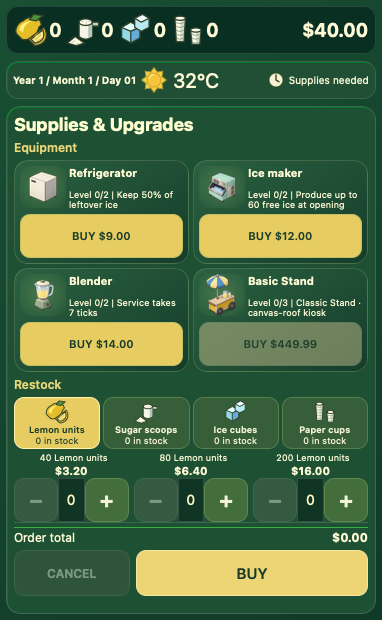
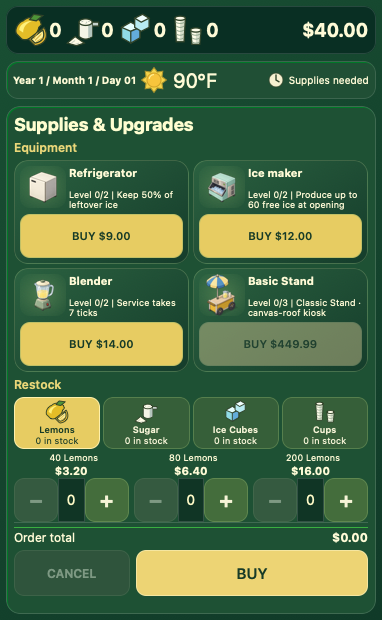
Expand landscape layouts and standardize pricing and Fahrenheit for 0.3.1

diff --git a/game/src/game/presentation/consolidated.css b/game/src/game/presentation/consolidated.css
@@ -137,3 +137,74 @@
 :root.duo[data-native-navigation][data-display][data-orientation] #app[data-workspace] .stand-reports #report-commentary strong {font-size:12px}
 :root.duo[data-native-navigation][data-display][data-orientation] #app[data-workspace] .stand-reports #report-commentary p {margin:3px 0;line-height:1.25;font-size:10px}
 :root.duo[data-native-navigation][data-display][data-orientation] #app[data-workspace] .stand-reports #result-values dt,:root.duo[data-native-navigation][data-display][data-orientation] #app[data-workspace] .stand-reports #result-values dd {font-size:10px;line-height:1.2;padding:3px 0}
+
+:root.duo[data-native-navigation][data-display][data-orientation] #app[data-workspace] .pitcher-price {display:flex;align-items:center;justify-content:space-between;gap:8px;padding:7px 10px;background:#0d3428;border-radius:10px;margin-top:5px;font-size:12px}
+:root.duo[data-native-navigation][data-display][data-orientation] #app[data-workspace] .pitcher-price small {font-size:10px;color:#b9d0b0}
+:root.duo[data-native-navigation][data-display][data-orientation] #app[data-workspace] .pitcher-price strong {font-size:18px;color:#f3dc81}
+:root.duo[data-native-navigation][data-display][data-orientation] #app[data-workspace] .location-list {grid-template-columns:1fr}
+:root.duo[data-native-navigation][data-display][data-orientation] #app[data-workspace] .location-list button:not([aria-pressed="true"]) {display:none!important}
+:root.duo[data-native-navigation][data-display][data-orientation] #app[data-workspace] .location-list button[aria-pressed="true"] {display:grid;grid-template-columns:65% 35%;align-items:center;padding:5px;background:#103d2b;color:#fff6cb;gap:6px;overflow:hidden}
+:root.duo[data-native-navigation][data-display][data-orientation] #app[data-workspace] .location-list button img {max-height:none;width:100%;height:96px;object-fit:contain;border-radius:8px;background:#092b22}
+:root.duo[data-native-navigation][data-display][data-orientation] #app[data-workspace] .location-list button span {font-size:16px;white-space:normal}
+:root.duo[data-native-navigation][data-display][data-orientation] #app[data-workspace] .location-list button small {font-size:11px;margin-top:5px}
+@media(max-width:649px) {
+ :root.duo[data-native-navigation][data-display][data-orientation] #app[data-workspace] #rent-details {grid-template-columns:minmax(0,1fr) auto minmax(0,1fr) auto;column-gap:6px;font-size:9px}
+ :root.duo[data-native-navigation][data-display][data-orientation] #app[data-workspace] #rent-details dt,:root.duo[data-native-navigation][data-display][data-orientation] #app[data-workspace] #rent-details dd {font-size:9px}
+ :root.duo[data-native-navigation][data-display][data-orientation] #app[data-workspace] .location-list button img {height:82px}
+ :root.duo[data-native-navigation][data-display][data-orientation] #app[data-workspace] .pitcher-price {padding:4px 8px;font-size:11px}
+ :root.duo[data-native-navigation][data-display][data-orientation] #app[data-workspace] .pitcher-price strong {font-size:16px}
+}
+@media(min-width:650px) and (min-height:500px) and (orientation:landscape) {
+ :root.duo[data-native-navigation][data-display][data-orientation] #app[data-workspace] .panel {padding:14px;gap:12px}
+ :root.duo[data-native-navigation][data-display][data-orientation] #app[data-workspace] .workspace-title {font-size:22px}
+ :root.duo[data-native-navigation][data-display][data-orientation] #app[data-workspace] .section-heading {font-size:15px;margin-bottom:10px}
+ :root.duo[data-native-navigation][data-display][data-orientation] #app[data-workspace][data-workspace="recipe"] #recipe-page {display:flex!important;flex-direction:column}
+ :root.duo[data-native-navigation][data-display][data-orientation] #app[data-workspace] #recipe-controls {flex:1;display:flex;flex-direction:column;justify-content:space-evenly}
+ :root.duo[data-native-navigation][data-display][data-orientation] #app[data-workspace] .recipe-row {min-height:74px;padding:10px;border-radius:14px}
+ :root.duo[data-native-navigation][data-display][data-orientation] #app[data-workspace] .recipe-row label {font-size:16px}
+ :root.duo[data-native-navigation][data-display][data-orientation] #app[data-workspace] .recipe-row .pixel-icon {width:42px;height:42px}
+ :root.duo[data-native-navigation][data-display][data-orientation] #app[data-workspace] .recipe-row .spinner button,:root.duo[data-native-navigation][data-display][data-orientation] #app[data-workspace] .recipe-row input {width:48px;height:48px;font-size:22px}
+ :root.duo[data-native-navigation][data-display][data-orientation] #app[data-workspace] .recipe-yield {padding:12px 8px;font-size:12px}
+ :root.duo[data-native-navigation][data-display][data-orientation] #app[data-workspace] #recipe-hint {font-size:12px;line-height:1.4;margin-top:12px}
+ :root.duo[data-native-navigation][data-display][data-orientation] #app[data-workspace][data-workspace="recipe"] #marketing-page {display:flex!important;flex-direction:column}
+ :root.duo[data-native-navigation][data-display][data-orientation] #app[data-workspace] #price-controls label {padding:12px;font-size:16px}
+ :root.duo[data-native-navigation][data-display][data-orientation] #app[data-workspace] #price-controls .pixel-icon {width:40px;height:40px}
+ :root.duo[data-native-navigation][data-display][data-orientation] #app[data-workspace] .pitcher-price {padding:14px 12px;font-size:15px}
+ :root.duo[data-native-navigation][data-display][data-orientation] #app[data-workspace] .pitcher-price strong {font-size:24px}
+ :root.duo[data-native-navigation][data-display][data-orientation] #app[data-workspace] #management-bill {margin:12px 0;font-size:12px}
+ :root.duo[data-native-navigation][data-display][data-orientation] #app[data-workspace] .advertising-options {flex:1;align-items:stretch;gap:9px}
+ :root.duo[data-native-navigation][data-display][data-orientation] #app[data-workspace] .advertising-options button {display:flex;flex-direction:column;justify-content:center;gap:12px;font-size:15px;border-radius:18px}
+ :root.duo[data-native-navigation][data-display][data-orientation] #app[data-workspace] .advertising-options .pixel-icon {width:56px;height:56px}
+ :root.duo[data-native-navigation][data-display][data-orientation] #app[data-workspace] .advertising-options small {font-size:12px}
+ :root.duo[data-native-navigation][data-display][data-orientation] #app[data-workspace][data-workspace="shop"] #supplies-page {display:flex!important;flex-direction:column}
+ :root.duo[data-native-navigation][data-display][data-orientation] #app[data-workspace] #supply-controls {flex:1;display:flex;flex-direction:column}
+ :root.duo[data-native-navigation][data-display][data-orientation] #app[data-workspace] .supply-tabs {gap:6px;margin-bottom:12px}
+ :root.duo[data-native-navigation][data-display][data-orientation] #app[data-workspace] .supply-tabs button {padding:10px 2px;font-size:12px}
+ :root.duo[data-native-navigation][data-display][data-orientation] #app[data-workspace] .supply-tabs .pixel-icon {width:38px;height:38px}
+ :root.duo[data-native-navigation][data-display][data-orientation] #app[data-workspace] .supply-tabs small {font-size:11px}
+ :root.duo[data-native-navigation][data-display][data-orientation] #app[data-workspace] #supplies {flex:1;display:grid;grid-template-rows:repeat(3,1fr)}
+ :root.duo[data-native-navigation][data-display][data-orientation] #app[data-workspace] .bundle-row {font-size:14px;min-height:60px;gap:8px}
+ :root.duo[data-native-navigation][data-display][data-orientation] #app[data-workspace] .order-dock {padding-top:12px}
+ :root.duo[data-native-navigation][data-display][data-orientation] #app[data-workspace] .order-total {font-size:15px;margin-bottom:8px}
+ :root.duo[data-native-navigation][data-display][data-orientation] #app[data-workspace] .purchase-actions button {min-height:48px;font-size:13px}
+ :root.duo[data-native-navigation][data-display][data-orientation] #app[data-workspace][data-workspace="business"] #staff-page {display:flex!important;flex-direction:column}
+ :root.duo[data-native-navigation][data-display][data-orientation] #app[data-workspace] #staff-catalog {flex:1;grid-template-rows:repeat(3,1fr);gap:10px}
+ :root.duo[data-native-navigation][data-display][data-orientation] #app[data-workspace] #staff-catalog .management-card {grid-template-columns:84px minmax(0,1fr) 78px;padding:10px;gap:8px;align-content:center}
+ :root.duo[data-native-navigation][data-display][data-orientation] #app[data-workspace] #staff-catalog .catalog-picture {width:84px;height:80px}
+ :root.duo[data-native-navigation][data-display][data-orientation] #app[data-workspace] #staff-catalog h3 {font-size:16px;align-self:end}
+ :root.duo[data-native-navigation][data-display][data-orientation] #app[data-workspace] #staff-catalog p {font-size:12px;align-self:start}
+ :root.duo[data-native-navigation][data-display][data-orientation] #app[data-workspace] .location-list button img {height:clamp(115px,24vh,185px)}
+ :root.duo[data-native-navigation][data-display][data-orientation] #app[data-workspace] .location-list button span {font-size:22px}
+ :root.duo[data-native-navigation][data-display][data-orientation] #app[data-workspace] .location-list button small {font-size:13px}
+ :root.duo[data-native-navigation][data-display][data-orientation] #app[data-workspace] #rent-details {font-size:11px}
+ :root.duo[data-native-navigation][data-display][data-orientation] #app[data-workspace] #rent-details dt,:root.duo[data-native-navigation][data-display][data-orientation] #app[data-workspace] #rent-details dd {padding:3px 0}
+ :root.duo[data-native-navigation][data-display][data-orientation] #app[data-workspace] #rent-unlock,:root.duo[data-native-navigation][data-display][data-orientation] #app[data-workspace] #rent-reservation {font-size:10px;line-height:1.25}
+}
+
+:root.duo[data-native-navigation][data-display][data-orientation] #app[data-workspace] #ice-basis {display:block;font-size:11px;margin:5px 0}
+
+@media(min-width:650px) and (orientation:landscape) {
+ :root.duo[data-native-navigation][data-display][data-orientation] #app[data-workspace] #rent-details {grid-template-columns:minmax(0,1fr) auto minmax(0,1fr) auto;column-gap:9px}
+ :root.duo[data-native-navigation][data-display][data-orientation] #app[data-workspace] #rent-details dt,:root.duo[data-native-navigation][data-display][data-orientation] #app[data-workspace] #rent-details dd {font-size:10px;line-height:1.3}
+ :root.duo[data-native-navigation][data-display][data-orientation] #app[data-workspace] #upgrades-catalog {height:calc(100% - 32px)}
+}

diff --git a/game/src/game/presentation/layout.ts b/game/src/game/presentation/layout.ts
@@ -6,10 +6,10 @@ import { standPreview } from "./stand-art";
 import { equipmentArt } from "./equipment-art";
 import { LOCATIONS, PALM_LOCATION_IDS as LOCATION_IDS } from "../content/locations";
 
-const recipeRow = (item: "lemon" | "sugar" | "ice") => `<div class="recipe-row"><label for="${item}">${icon(item)}<span>${item === "ice" ? "Ice per cup" : ITEMS[item].name}</span></label><div class="spinner"><button type="button" data-adjust="${item}" data-direction="-1" aria-label="Decrease ${item}">−</button><input id="${item}" type="number" min="0" max="${item === "sugar" ? 10 : item === "ice" ? 7 : 20}" step="1" value="${item === "sugar" ? 3 : item === "ice" ? 2 : 6}"><button type="button" data-adjust="${item}" data-direction="1" aria-label="Increase ${item}">+</button></div></div>`;
+const recipeRow = (item: "lemon" | "sugar" | "ice") => `<div class="recipe-row"><label for="${item}">${icon(item)}<span>${ITEMS[item].name}</span></label><div class="spinner"><button type="button" data-adjust="${item}" data-direction="-1" aria-label="Decrease ${item}">−</button><input id="${item}" type="number" min="0" max="${item === "sugar" ? 10 : item === "ice" ? 7 : 20}" step="1" value="${item === "sugar" ? 3 : item === "ice" ? 2 : 6}"><button type="button" data-adjust="${item}" data-direction="1" aria-label="Increase ${item}">+</button></div></div>`;
 
 export const markup = `
-<header class="masthead"><h1>${icon("lemon")} Lemonade Tycoon</h1><span class="edition">REMASTERED · 0.3.0</span></header>
+<header class="masthead"><h1>${icon("lemon")} Lemonade Tycoon</h1><span class="edition">REMASTERED · 0.3.1</span></header>
 <section class="resource-bar" aria-label="Supplies and cash">
  ${ITEM_KEYS.map((item) => `<span><span class="sr-only">${ITEMS[item].name}: </span>${icon(item)}<strong id="inventory-${item}">0</strong></span>`).join("")}
  <strong id="cash" aria-label="Cash on hand"></strong>
@@ -43,7 +43,7 @@ export const markup = `
       <div class="recipe-group"><h3>Per pitcher</h3>${(["lemon", "sugar"] as const).map(recipeRow).join("")}<div class="recipe-yield">${icon("recipe")}<strong id="pitcher-yield"></strong></div></div>
       <div class="recipe-group"><h3 id="ice-basis">Per sold cup</h3>${recipeRow("ice")}</div>
      </fieldset><p class="hint" id="recipe-hint"></p></div>
-    <div id="marketing-page" class="control-page" hidden><p class="intro">Set your price for a cup of lemonade.<br>Charge too much and customers will walk away.</p><fieldset id="price-controls"><legend>Price per cup</legend><label>${icon("price")}Selling price ($)<input id="price" type="number" min="0.25" max="5" step="0.01" value="1.50"></label></fieldset><p id="management-bill" class="hint"></p><div class="advertising-options">${Object.entries(ADS).map(([id, item]) => `<button data-advertising="${id}">${icon(id === "none" ? "wordOfMouth" : id === "radio" ? "radio" : "marketing")}<strong>${item.name}</strong><span><small>$${(item.cost / 100).toFixed(2)}/day</small><small>+${Math.round((item.traffic - 1) * 100)}% visitors</small></span></button>`).join("")}</div><p class="hint">Compare your selling price with the ingredient cost below.</p></div>
+    <div id="marketing-page" class="control-page" hidden><p class="intro">Set your price for a cup of lemonade.<br>Charge too much and customers will walk away.</p><fieldset id="price-controls"><legend>Price per cup</legend><label>${icon("price")}Price per cup ($)<input id="price" type="number" min="0.25" max="5" step="0.01" value="1.50"></label><div class="pitcher-price"><span>Price per pitcher <small id="price-pitcher-yield"></small></span><strong id="price-pitcher"></strong></div></fieldset><p id="management-bill" class="hint"></p><div class="advertising-options">${Object.entries(ADS).map(([id, item]) => `<button data-advertising="${id}">${icon(id === "none" ? "wordOfMouth" : id === "radio" ? "radio" : "marketing")}<strong>${item.name}</strong><span><small>$${(item.cost / 100).toFixed(2)}/day</small><small>+${Math.round((item.traffic - 1) * 100)}% visitors</small></span></button>`).join("")}</div><p class="hint">Compare your selling price with the ingredient cost below.</p></div>
     <div id="supplies-page" class="control-page" hidden><p class="intro">Choose your supplies, then BUY to confirm.<br>Leftovers stay in stock for tomorrow.</p><fieldset id="supply-controls"><legend class="sr-only">Buy supplies</legend>
      <nav class="supply-tabs" aria-label="Supply categories">${ITEM_KEYS.map((item) => `<button data-supply="${item}" aria-pressed="${item === "lemon"}">${icon(item)}<span>${ITEMS[item].name}</span><small id="stock-${item}"></small></button>`).join("")}</nav>
      <div id="supplies"></div><p id="order-summary" class="hint"></p><div class="order-total"><span>Order total</span><strong id="order-total"></strong></div><div class="purchase-actions"><button id="cancel-order">CANCEL</button><button id="buy-order">BUY</button></div>
@@ -74,7 +74,7 @@ export const markup = `
 <p>2. Recipe: start with 6 lemons / 3 sugar per pitcher. Keep the drink concentrated as well as balanced: extra ice dilutes it and increases cups per pitcher. Use enough ice to cool the drink; the recipe panel shows the minimum for today.</p>
 <p>3. Marketing: enter your price directly. Try $1.75 first. Ads bring more visitors, but charge every day. Extra traffic needs enough stock and fast service.</p>
 <p>4. START DAY prepares the first pitcher and sells automatically. Empty pitchers refill immediately while supplies last. Speed and SKIP change waiting time, not the outcome. Results separates ingredient costs from supply cash purchases.</p>
-<p>5. NEXT DAY keeps leftover lemons, sugar and paper cups. Leftover ice melts; a level 1 refrigerator keeps half (rounded down), and level 2 keeps all. Earn Park after 3 days/$45 sales/55% rating; Downtown after 7 days/$120/65%. Rent and wages charge at opening.</p>
+<p>5. NEXT DAY keeps leftover lemons, sugar and cups. Leftover ice melts; a level 1 refrigerator keeps half (rounded down), and level 2 keeps all. Earn Park after 3 days/$45 sales/55% rating; Downtown after 7 days/$120/65%. Rent and wages charge at opening.</p>
 <p>Ice makers produce free ice at opening, within the storage limit. No electricity or production fee. Bought ice still costs money; free ice is used first and adds no ingredient expense.</p>
 <p>Equipment is permanent. A server speeds service; a host extends patience. Owner only dismisses staff. Ice makers produce up to 60/120 free ice at opening. Choose affordable investments.</p>
 <p>Customers decide whether to buy from your price, their budget and your existing reputation. Ads attract visitors. Today's recipe is tasted after purchase: too little ice on a hot day tastes warm; extra ice can make it watery unless you add balanced lemon and sugar. Lemon/sugar balance affects sourness and sweetness. Taste changes satisfaction and future reputation. Daily satisfaction also includes customers lost to price, waiting or empty stock. Downtown has more office workers, who wait less than neighbors or students. Operating costs are rent, moving, wages and ads.</p>

diff --git a/game/src/reboot.ts b/game/src/reboot.ts
@@ -641,14 +641,14 @@ function renderRent(): void {
         Math.round((location.patience + STAFF[state.management.staff].patience) * customer.patience)));
     const totalWeights = location.weights.reduce((total: number, weight) => total + weight, 0);
     const conditions = locationConditions(state.day, selectedLocation, state.weather);
-    text("rent-description", location.description + (selectedLocation === "mall" ? " Indoors:20\u00b0C; sheltered from rain." :
+    text("rent-description", location.description + (selectedLocation === "mall" ? " Indoors: 68\u00b0F; sheltered from rain." :
         state.weather.label === "Rainy" ? " Rain reduces outdoor foot traffic today." : "") +
         (conditions.newsFactor !== 1 ? ` Today's news changes visitors by ${Math.round((conditions.newsFactor - 1) * 100)}%.` : ""));
     rows("rent-details", [
         ["Daily rent / moving", `${money(location.rent)} / ${money(moveFee)}`],
         ["Visitors / budget", `${expectedTraffic({ ...state, business: null }, selectedLocation)} / ${Math.round(location.budget * 100)}%`],
         ["Wait range / arrivals", `${(Math.min(...patience) / 10).toFixed(1)}–${(Math.max(...patience) / 10).toFixed(1)}s / ${(location.arrival / 10).toFixed(1)}s`],
-        ["Temperature / cooling", `${conditions.temperature}\u00b0C / ${recipeTaste(state.plan.recipe, conditions.temperature).preferredIce} ice per cup`],
+        ["Temperature / cooling", `${Math.round(conditions.temperature * 9 / 5 + 32)}\u00b0F / ${recipeTaste(state.plan.recipe, conditions.temperature).preferredIce} ice per cup`],
         ["Office workers", `${Math.round(location.weights[1] / totalWeights * 100)}% · shortest wait`],
         ["Popularity / satisfaction", `${Math.round(rating.popularity * 100)}% / ${Math.round(rating.satisfaction * 100)}%`],
     ]);
@@ -676,7 +676,7 @@ function render(): void {
     text("day", String(date.day).padStart(2, "0"));
     element("career-date").title = `Business day ${state.day}`;
     text("cash", money(state.cash));
-    text("weather", effectiveWeather(state).temperature + "°C");
+    text("weather", `${Math.round(effectiveWeather(state).temperature * 9 / 5 + 32)}°F`);
     const weatherArt = element("weather-art");
     if (weatherArt.dataset.weather !== state.weather.label) {
         weatherArt.innerHTML = icon(
@@ -689,7 +689,7 @@ function render(): void {
     text("weather-label", selling ? "Current weather" : closed ? "Today's weather" : "Weather forecast");
     const climateLocation = prep ? state.pendingLocation ?? state.location : state.location;
     text("weather-advice", climateLocation === "mall" && (!state.business || state.business.conditions)
-        ? `${state.weather.label} outside · indoors 20\u00b0C`
+        ? `${state.weather.label} outside · indoors 68\u00b0F`
         : state.business && !state.business.conditions
             ? `${state.weather.label} · saved opening weather`
             : `${state.weather.label} · ${prep ? "steady all day" : LOCATIONS[state.location].street}`);
@@ -788,6 +788,8 @@ function render(): void {
     if (prep && readiness.cups === 0) element("open").setAttribute("aria-describedby", "supply-warning");
     else element("open").removeAttribute("aria-describedby");
     text("unit-cost", money(unitCost(state.plan.recipe, state.freeIce + openingCosts(state).ice)));
+    text("price-pitcher", money(state.plan.price * cupsPerPitcher(state.plan.recipe)));
+    text("price-pitcher-yield", `(${cupsPerPitcher(state.plan.recipe)} cups)`);
     const legacyPaidDay = state.business !== null && state.business.customerModel !== "purchase-first-v1";
     text("ice-basis", legacyPaidDay ? "Ice reserved at opening" : "Per sold cup");
     text("pitcher-yield", `${cupsPerPitcher(state.plan.recipe)} cups per pitcher; ` + (legacyPaidDay

diff --git a/game/src/game/presentation/icons.ts b/game/src/game/presentation/icons.ts
@@ -39,7 +39,7 @@ const drawings = {
     marketing: '<path fill="#eff1da" d="m2 6 10-4 9 5-10 5-9-4Z"/><path fill="none" stroke="#7c9883" stroke-width=".7" d="m7 6 5-2m-4 4 7-3"/><path fill="#c79e35" d="M13 14h10v6q-5 4-10 0Z"/><ellipse fill="#f6df68" cx="18" cy="14" rx="5" ry="2.5"/><path fill="none" stroke="#927731" d="M13 17q5 4 10 0m-5-5v4"/><ellipse fill="#e7c453" cx="9" cy="22" rx="5" ry="2.5"/><path fill="none" stroke="#f9ed9c" d="m7 21 3 1"/>',
     upgrades: '<path fill="#d6a450" d="M4 13h18v10H4Z"/><path fill="#efdab0" d="m2 10 5-7h14l3 7-4 3H5Z"/><path fill="#bc614c" d="m2 10 5-7h3l-3 7-2 3Zm8 0 2-7h4l-1 7-2 3Zm8 0V3h3l3 7-4 3Z"/><path fill="#6d8f79" d="M7 15h6v5H7Z"/><path fill="#f6e2b0" d="M3 12h20v3H3Z"/><path fill="#a67536" d="M15 16h5v7h-5Z"/>',
     wordOfMouth: '<path fill="#d6e1c4" d="M9 3h15v12h-3v5l-5-5H9Z"/><path fill="#faf1d0" d="M2 8h15v12h-6l-5 4v-4H2Z"/><path fill="none" stroke="#799179" d="M12 6h8M5 12h9M5 16h6"/>',
-    radio: '<path fill="none" stroke-width="1.5" d="m17 7 5-5"/><path fill="#bf7d48" d="M2 8h22v15H2Z"/><path fill="#efdba8" d="M4 10h18v11H4Z"/><path fill="#c9c7a0" d="M6 12h8v7H6Z"/><path fill="none" stroke="#7a8e77" stroke-width=".6" d="M7 13h6m-6 2h6m-6 2h6"/><path fill="#527563" d="M16 11h5v3h-5Z"/><circle fill="#e2bd5a" cx="18.5" cy="18" r="2"/><path fill="none" d="M6 23v1m14-1v1"/>',
+    radio: '<path fill="#547368" d="M2 5h22v17H2Z"/><path fill="#cce4d5" d="M4 7h15v12H4Z"/><path fill="#f1d366" d="m9 9 7 4-7 4Z"/><circle fill="#f1d366" cx="21.5" cy="10" r="1"/><path fill="none" d="m8 2 5 3 5-3M8 24h10m-5-2v2"/>',
 } as const;
 export function icon(name: keyof typeof drawings): string {
     return `<svg class="pixel-icon" viewBox="0 0 26 26" aria-hidden="true" focusable="false" xmlns="http://www.w3.org/2000/svg"><g stroke="#304329" stroke-width="1" stroke-linejoin="miter">${drawings[name]}</g></svg>`;

diff --git a/game/src/game/presentation/start-menu.ts b/game/src/game/presentation/start-menu.ts
@@ -69,7 +69,7 @@ export class StartMenu {
             </section>
             <details class="lobby-saves"><summary>Saved companies <span>8 slots</span></summary><div class="company-list" aria-label="Saved companies">${Array.from({length:8},(_,i)=>`<button data-company="${i}" aria-pressed="false">Empty slot</button>`).join("")}</div></details>
           </main>
-          <footer class="lobby-footer"><nav aria-label="Menu tools"><button id="menu-options">${options}<span>Options</span></button><button id="menu-help">${help}<span>Help</span></button><button id="menu-import">${disk}<span>Import save</span></button><button id="menu-credits">${credits}<span>Credits</span></button><button id="menu-quit" hidden>Quit</button></nav><p>WIREPROOF · v0.3.0</p></footer>
+          <footer class="lobby-footer"><nav aria-label="Menu tools"><button id="menu-options">${options}<span>Options</span></button><button id="menu-help">${help}<span>Help</span></button><button id="menu-import">${disk}<span>Import save</span></button><button id="menu-credits">${credits}<span>Credits</span></button><button id="menu-quit" hidden>Quit</button></nav><p>WIREPROOF · v0.3.1</p></footer>
           <dialog id="menu-credits-dialog"><h2>Lemonade Tycoon Remastered</h2><p>Original game and scenery: Hexacto / Broderbund. iPhone adaptation: WIREPROOF. Community simulation, character art and music: Gamez0 / Willow Lane Lemonade (MIT).</p><p>Original artwork extracted from your supplied game disc for this private build. Phaser: MIT. Oswald: SIL Open Font License.</p><form method="dialog"><button>Close</button></form></dialog>
         </div>`;
         this.root.classList.add('menu-remastered');

diff --git a/game/src/game/content/catalog.ts b/game/src/game/content/catalog.ts
@@ -1,9 +1,9 @@
 // Money is always integer cents. Recipe ingredients are small serving units.
 export const ITEMS = {
-    lemon: { name: "Lemon units", cost: 8, bundle: 40 },
-    sugar: { name: "Sugar scoops", cost: 4, bundle: 20 },
-    ice: { name: "Ice cubes", cost: 2, bundle: 60 },
-    cup: { name: "Paper cups", cost: 6, bundle: 20 },
+    lemon: { name: "Lemons", cost: 8, bundle: 40 },
+    sugar: { name: "Sugar", cost: 4, bundle: 20 },
+    ice: { name: "Ice Cubes", cost: 2, bundle: 60 },
+    cup: { name: "Cups", cost: 6, bundle: 20 },
 } as const;
 
 export type Item = keyof typeof ITEMS;

diff --git a/game/src/game/content/management.ts b/game/src/game/content/management.ts
@@ -14,9 +14,9 @@ export const STAFF = {
     host: { name: "Robin · queue host", wage: 180, speed: 0, patience: 12 },
 } as const;
 export const ADS = {
-    none: { name: "Word of mouth", cost: 0, traffic: 1 },
-    flyers: { name: "Local flyers", cost: 180, traffic: 1.2 },
-    radio: { name: "Local radio", cost: 450, traffic: 1.45 },
+    none: { name: "Social", cost: 0, traffic: 1 },
+    flyers: { name: "Ads", cost: 180, traffic: 1.2 },
+    radio: { name: "TV", cost: 450, traffic: 1.45 },
 } as const;
 export interface Management {
     readonly upgrades: Readonly<Record<Upgrade, number>>;

diff --git a/ios/build.py b/ios/build.py
@@ -11,7 +11,7 @@ if (app/'Web').exists(): shutil.rmtree(app/'Web')
 shutil.copytree(root/'game/dist',app/'Web')
 shutil.copy2(root/'game/LICENSE',app/'LICENSE.txt')
 if mode=='simulator': shutil.copy2(root/'ios/smoke.js',app/'smoke.js')
-info=dict(CFBundleExecutable='LemonadeTycoon',CFBundleIdentifier='com.wireproof.lemonadetycoon',CFBundleName='Lemonade Tycoon',CFBundleDisplayName='Lemonade',CFBundleVersion='13',CFBundleShortVersionString='0.3.0',CFBundlePackageType='APPL',MinimumOSVersion='16.0',LSRequiresIPhoneOS=True,UIDeviceFamily=[1,2],UILaunchScreen={},UIRequiresFullScreen=False,UISupportedInterfaceOrientations=['UIInterfaceOrientationPortrait','UIInterfaceOrientationLandscapeLeft','UIInterfaceOrientationLandscapeRight'],UIFileSharingEnabled=True,LSSupportsOpeningDocumentsInPlace=True,ITSAppUsesNonExemptEncryption=False,UIApplicationSceneManifest={'UIApplicationSupportsMultipleScenes':False,'UISceneConfigurations':{'UIWindowSceneSessionRoleApplication':[{'UISceneConfigurationName':'Lemonade','UISceneDelegateClassName':'LemonadeScene'}]}})
+info=dict(CFBundleExecutable='LemonadeTycoon',CFBundleIdentifier='com.wireproof.lemonadetycoon',CFBundleName='Lemonade Tycoon',CFBundleDisplayName='Lemonade',CFBundleVersion='14',CFBundleShortVersionString='0.3.1',CFBundlePackageType='APPL',MinimumOSVersion='16.0',LSRequiresIPhoneOS=True,UIDeviceFamily=[1,2],UILaunchScreen={},UIRequiresFullScreen=False,UISupportedInterfaceOrientations=['UIInterfaceOrientationPortrait','UIInterfaceOrientationLandscapeLeft','UIInterfaceOrientationLandscapeRight'],UIFileSharingEnabled=True,LSSupportsOpeningDocumentsInPlace=True,ITSAppUsesNonExemptEncryption=False,UIApplicationSceneManifest={'UIApplicationSupportsMultipleScenes':False,'UISceneConfigurations':{'UIWindowSceneSessionRoleApplication':[{'UISceneConfigurationName':'Lemonade','UISceneDelegateClassName':'LemonadeScene'}]}})
 icons=root/'ios/icons'
 if icons.exists():
  for p in icons.glob('*.png'): shutil.copy2(p,app/p.name)
@@ -29,7 +29,7 @@ if profile and mode=='device':
  shutil.copy2(profile,app/'embedded.mobileprovision');args+=['--entitlements',str(ep)]
 subprocess.run(args+[str(app)],check=True)
 if mode=='device':
- out=root/'LemonadeTycoon-Remastered-v0.3.0.ipa'
+ out=root/'LemonadeTycoon-Remastered-v0.3.1.ipa'
  with zipfile.ZipFile(out,'w',zipfile.ZIP_DEFLATED) as z:
   for p in app.rglob('*'):
    if p.is_file(): z.write(p,p.relative_to(build))

diff --git a/README.md b/README.md
@@ -1,8 +1,10 @@
 # Lemonade Tycoon Remastered — iPhone and iPad
 
-Version 0.3.0, playable development build. An unofficial reconstruction of the first Lemonade Tycoon, guided by the user's original Palm game and community research into the first PC game. This is not recovered original source and is not an official Hexacto release.
+Version 0.3.1, playable development build. An unofficial reconstruction of the first Lemonade Tycoon, guided by the user's original Palm game and community research into the first PC game. This is not recovered original source and is not an official Hexacto release.
 
-Five native destinations replace the separate management pages and bottom toolbar: Menu; Stand and reports; Business (locations and staff); Shop (supplies and equipment); and Recipe & Marketing. Management pages use the full workspace. Stand has a large scene, live statistics, integrated reports and a dedicated action footer. The welcome menu is rebuilt with a company card, career/challenge choices and a separate company library. The approved app icon and save format are preserved.
+Landscape workspaces now use larger recipe controls, promotion cards, stock controls and staff portraits. Locations have a large complete-scene preview with previous/next selection. Inventory labels are Lemons, Sugar, Ice Cubes and Cups; promotion choices are Social, Ads and TV. Displayed temperatures use Fahrenheit. Recipe & Marketing shows an editable price per cup and the equivalent price per pitcher for the current yield. Internal simulation units and saved advertising identifiers remain compatible with existing saves.
+
+The five native destinations remain Menu, Stand and reports, Business, Shop, and Recipe & Marketing. There is no second bottom toolbar. The approved app icon and save format are preserved.
 
 ## Included
 
@@ -14,7 +16,7 @@ The native UIKit/WKWebView shell serves all resources through an in-process loca
 
 ## Delivery
 
-The v0.3.0 prerelease includes `com.wireproof.lemonadetycoon-0.3.0-13-unsigned.ipa` for iPhone and iPad (iOS 16 or later). It requires your own signing before installation. Bundle ID: `com.wireproof.lemonadetycoon`; Home Screen name: Lemonade. The source includes all game graphics, audio, fonts and native icon assets.
+The v0.3.1 prerelease includes `com.wireproof.lemonadetycoon-0.3.1-14-unsigned.ipa` for iPhone and iPad (iOS 16 or later). It requires your own signing before installation. Bundle ID: `com.wireproof.lemonadetycoon`; Home Screen name: Lemonade. The source includes all game graphics, audio, fonts and native icon assets.
 
 ## Build
 
@@ -24,7 +26,7 @@ Then at repository root: `python3 ios/build.py device` (or `simulator`). Require
 
 ## Verification
 
-Build 13 verification and device delivery are recorded in `verification/v0.3.0`. Browser layout checks cover four usable viewport sizes and exercise the five destinations. A separate trading flow checks purchasing, day-end reports, native navigation actions and save retention. The Duo native simulator passed an offline trading day, artwork readiness, five-tab navigation and save retention. The iPad native simulator installation timed out, so its fresh native runtime check remains incomplete. Duo build 13 installation and 13 unchanged save files are verified; physical iPad delivery is pending availability. Neither physical app was launched. Physical installation, runtime testing and visual acceptance are recorded separately; simulator and browser checks do not establish physical fold-transition behavior.
+Build 14 passed TypeScript checking and five production WebKit scenarios: four usable viewport sizes and a complete purchase, trading, reporting and save-retention flow. Checks cover overflow, enlarged location previews, Fahrenheit, promotion labels and calculated pitcher pricing. Duo and iPad native simulator trading, artwork, navigation and save-retention checks passed. Duo installation and 13 unchanged save files are verified; physical iPad delivery remains pending availability. Native and physical delivery results are recorded separately in `verification/v0.3.1`. Physical runtime and visual acceptance are not performed during background delivery.
 
 ## Fidelity status
 
@@ -56,6 +58,12 @@ These are WebKit layout verification captures, not physical-device screenshots.
 | ![Recipe](docs/screenshots/cover-recipe-complete.png) | ![Welcome](docs/screenshots/cover-welcome-complete.png) |
 
 ![Landscape Play with live statistics](docs/screenshots/inner-play-stats.png)
+
+![Landscape Recipe and Marketing](docs/screenshots/landscape-recipe.png)
+
+![Landscape Business](docs/screenshots/landscape-business.png)
+
+![Landscape Shop](docs/screenshots/landscape-shop.png)
 
 | Combined Shop | Business | Daily report |
 | --- | --- | --- |
